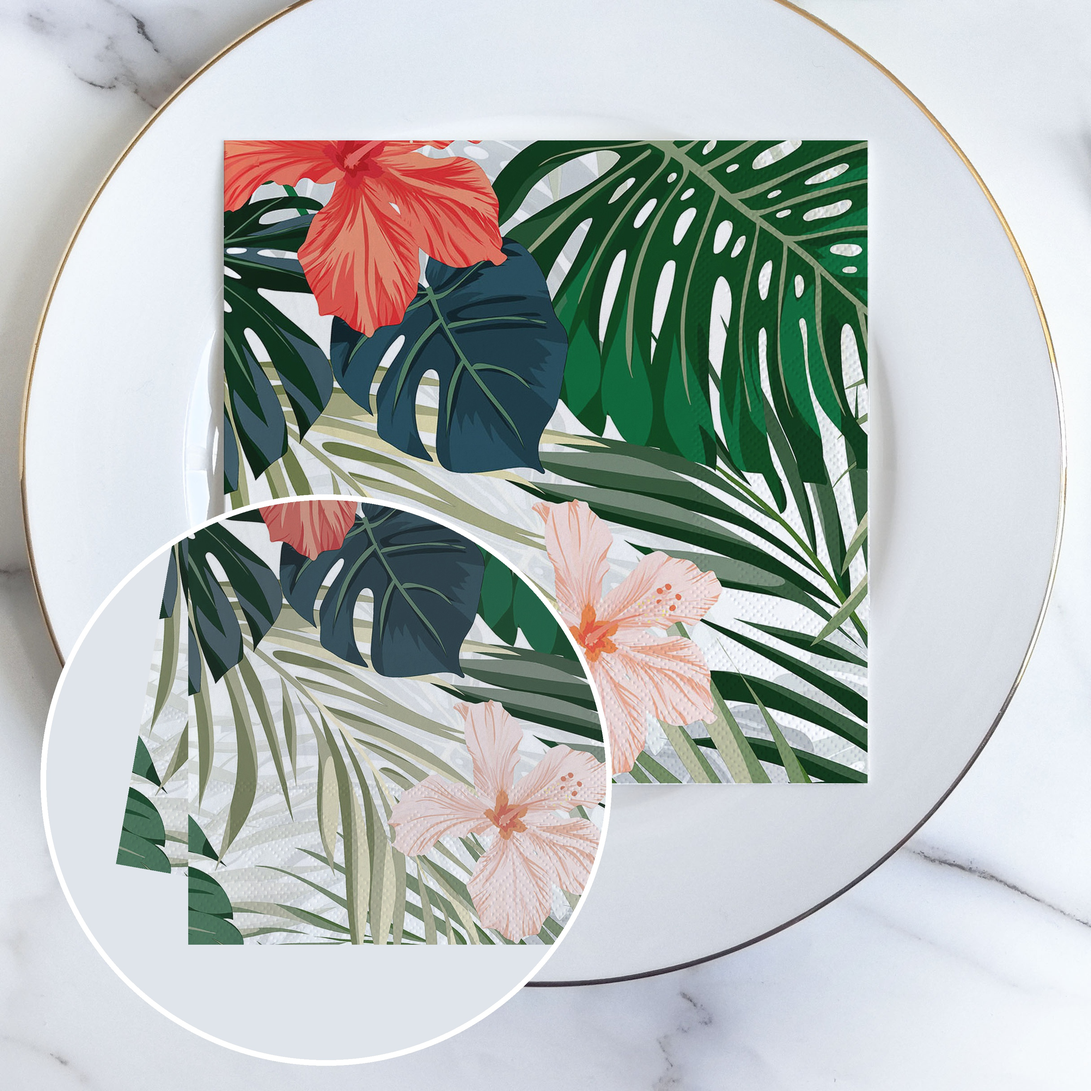
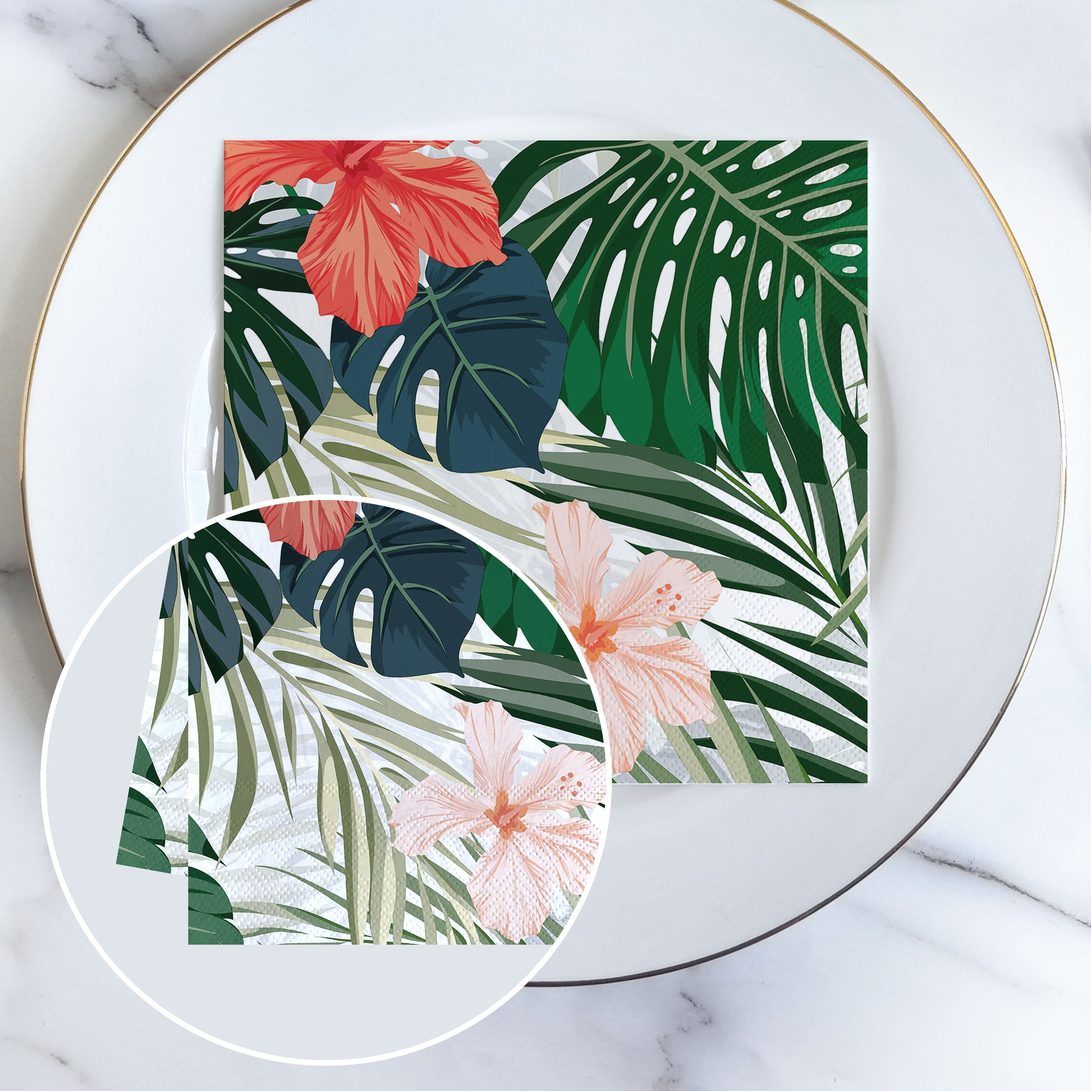
texture update

Changed region(s): [[0.125, 0.5938, 0.5625, 0.875]]

diff --git a/餐巾纸套图生成/生成餐巾纸套图.py b/餐巾纸套图生成/生成餐巾纸套图.py
@@ -19,7 +19,7 @@ from dataclasses import dataclass
 from pathlib import Path
 from typing import Iterable
 
-from PIL import Image, ImageChops, ImageDraw, ImageEnhance, ImageOps
+from PIL import Image, ImageChops, ImageDraw, ImageEnhance, ImageOps, ImageStat
 
 
 SUPPORTED_EXTENSIONS = {".jpg", ".jpeg", ".png", ".bmp", ".tif", ".tiff", ".webp"}
@@ -57,8 +57,9 @@ DETAIL_BACKGROUND_CROP = (0, 640, 3072, 3072)
 DETAIL_CIRCLE_BACKGROUND_COLOR = (224, 229, 236)
 DETAIL_TEXTURE_TEMPLATE = "2.jpg"
 DETAIL_TEXTURE_SOURCE_BOX = (700, 703, 2373, 2370)
-DETAIL_RECT_OPACITY = 0.92
-DETAIL_RECT_TEXTURE = 0.7
+DETAIL_RECT_OPACITY = 1
+DETAIL_RECT_TEXTURE = 0.88
+DETAIL_RECT_TEXTURE_CONTRAST = 1.45
 DETAIL_INSET_RECTS = (
     ((450, 1020, 2010, 2580), -10),
     ((530, 1100, 2090, 2660), 0.0),
@@ -129,14 +130,35 @@ def resize_to_cover(image: Image.Image, size: tuple[int, int]) -> Image.Image:
     return resized.crop((left, top, left + size[0], top + size[1]))
 
 
-def paper_blend(base_crop: Image.Image, art: Image.Image, opacity: float, texture: float) -> Image.Image:
+def clamp_blend_amount(value: float) -> float:
+    return max(0.0, min(value, 1.0))
+
+
+def match_luminance(image: Image.Image, reference: Image.Image) -> Image.Image:
+    current = ImageStat.Stat(image.convert("L")).mean[0]
+    if current <= 0:
+        return image
+
+    target = ImageStat.Stat(reference.convert("L")).mean[0]
+    return ImageEnhance.Brightness(image).enhance(target / current)
+
+
+def paper_blend(
+    base_crop: Image.Image,
+    art: Image.Image,
+    opacity: float,
+    texture: float,
+    preserve_art_luminance: bool = False,
+) -> Image.Image:
     """Keep napkin paper texture while replacing artwork."""
     base_crop = base_crop.convert("RGB")
     art = ImageEnhance.Contrast(art).enhance(1.04)
     art = ImageEnhance.Color(art).enhance(1.03)
     textured = ImageChops.multiply(art, base_crop)
-    textured = Image.blend(art, textured, texture)
-    return Image.blend(base_crop, textured, opacity)
+    textured = Image.blend(art, textured, clamp_blend_amount(texture))
+    if preserve_art_luminance:
+        textured = match_luminance(textured, art)
+    return Image.blend(base_crop, textured, clamp_blend_amount(opacity))
 
 
 def apply_placement(canvas: Image.Image, source_image: Image.Image, placement: Placement) -> None:
@@ -191,6 +213,11 @@ def detail_texture_source(texture_template: Image.Image) -> Image.Image:
     return ImageOps.exif_transpose(texture_template).convert("RGB").crop(DETAIL_TEXTURE_SOURCE_BOX)
 
 
+def enhance_detail_texture(texture: Image.Image) -> Image.Image:
+    enhanced = ImageEnhance.Contrast(texture).enhance(DETAIL_RECT_TEXTURE_CONTRAST)
+    return match_luminance(enhanced, texture)
+
+
 def textured_detail_art(
     folded: Image.Image,
     texture_source: Image.Image | None,
@@ -200,8 +227,14 @@ def textured_detail_art(
     if texture_source is None:
         return art.convert("RGBA")
 
-    texture = resize_to_cover(texture_source, size)
-    return paper_blend(texture, art, DETAIL_RECT_OPACITY, DETAIL_RECT_TEXTURE).convert("RGBA")
+    texture = enhance_detail_texture(resize_to_cover(texture_source, size))
+    return paper_blend(
+        texture,
+        art,
+        DETAIL_RECT_OPACITY,
+        DETAIL_RECT_TEXTURE,
+        preserve_art_luminance=True,
+    ).convert("RGBA")
 
 
 def paste_circle_rects(
